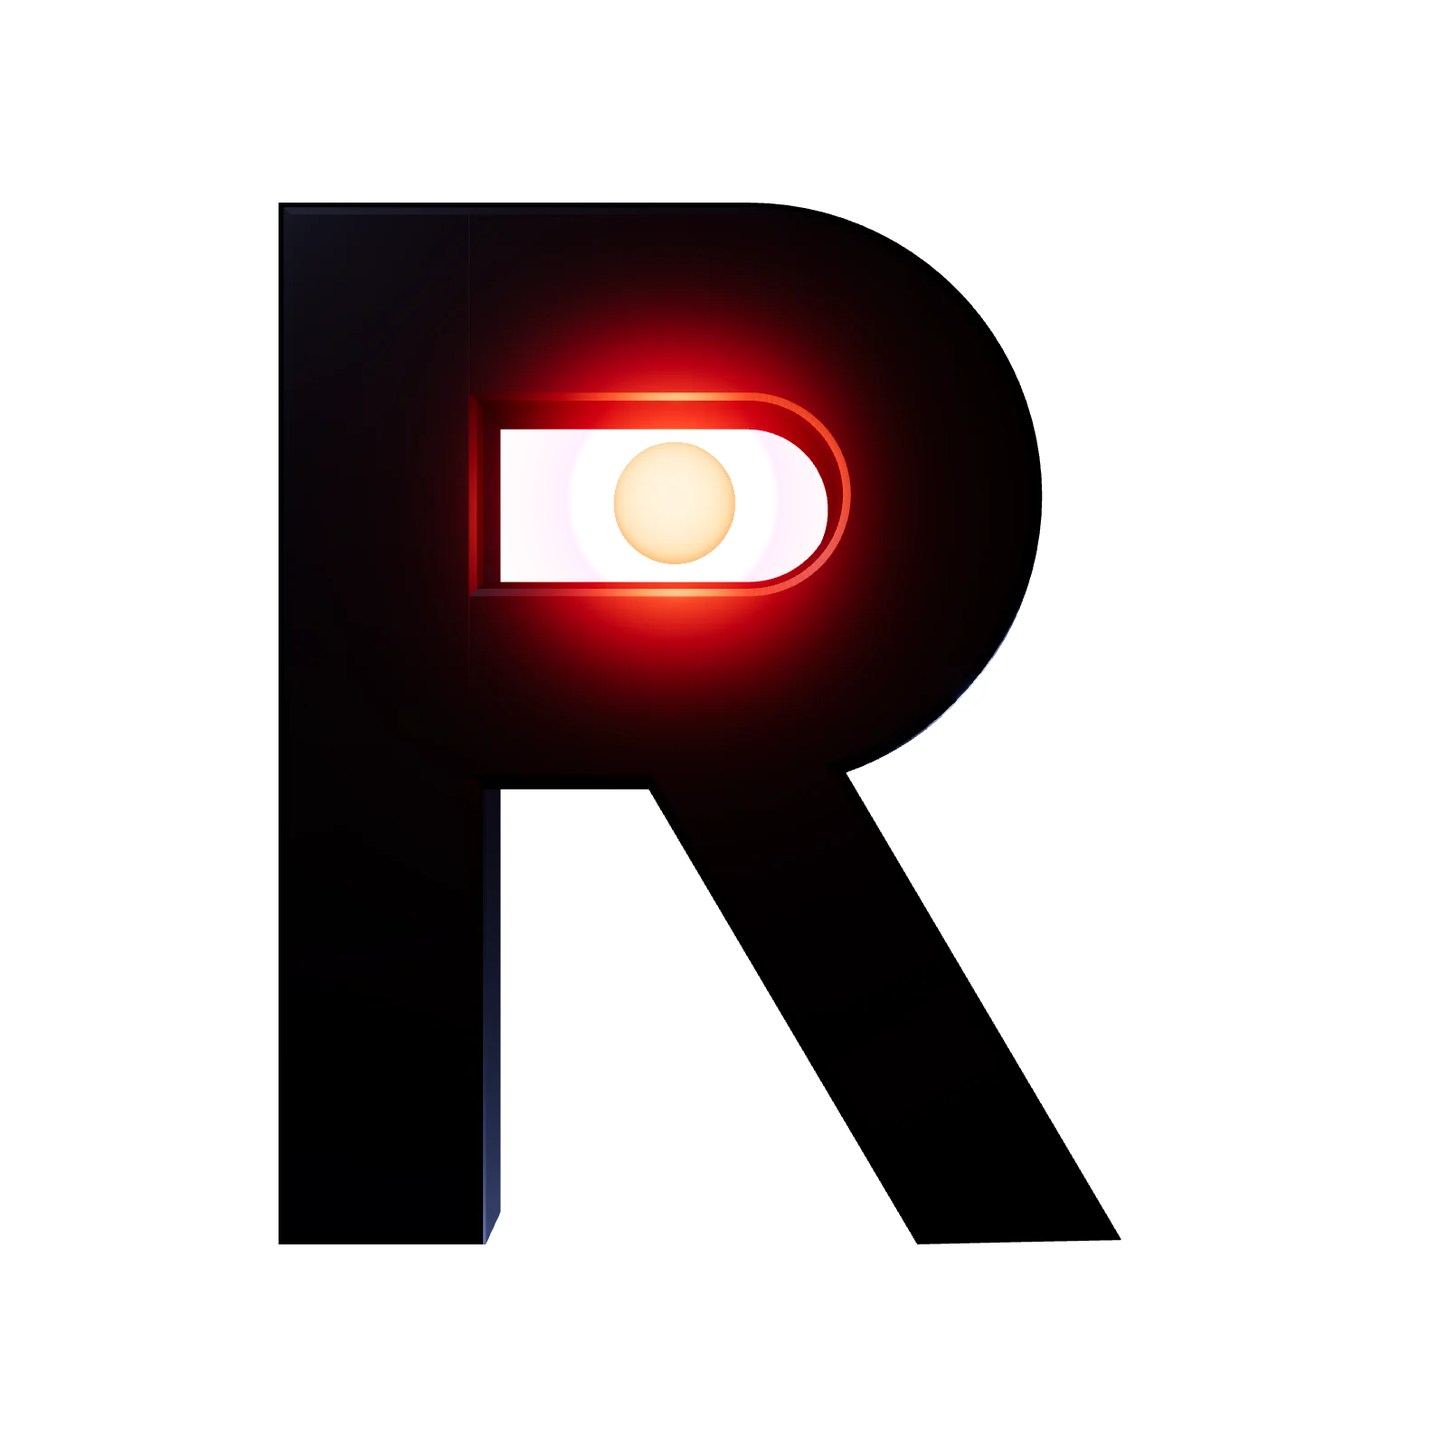
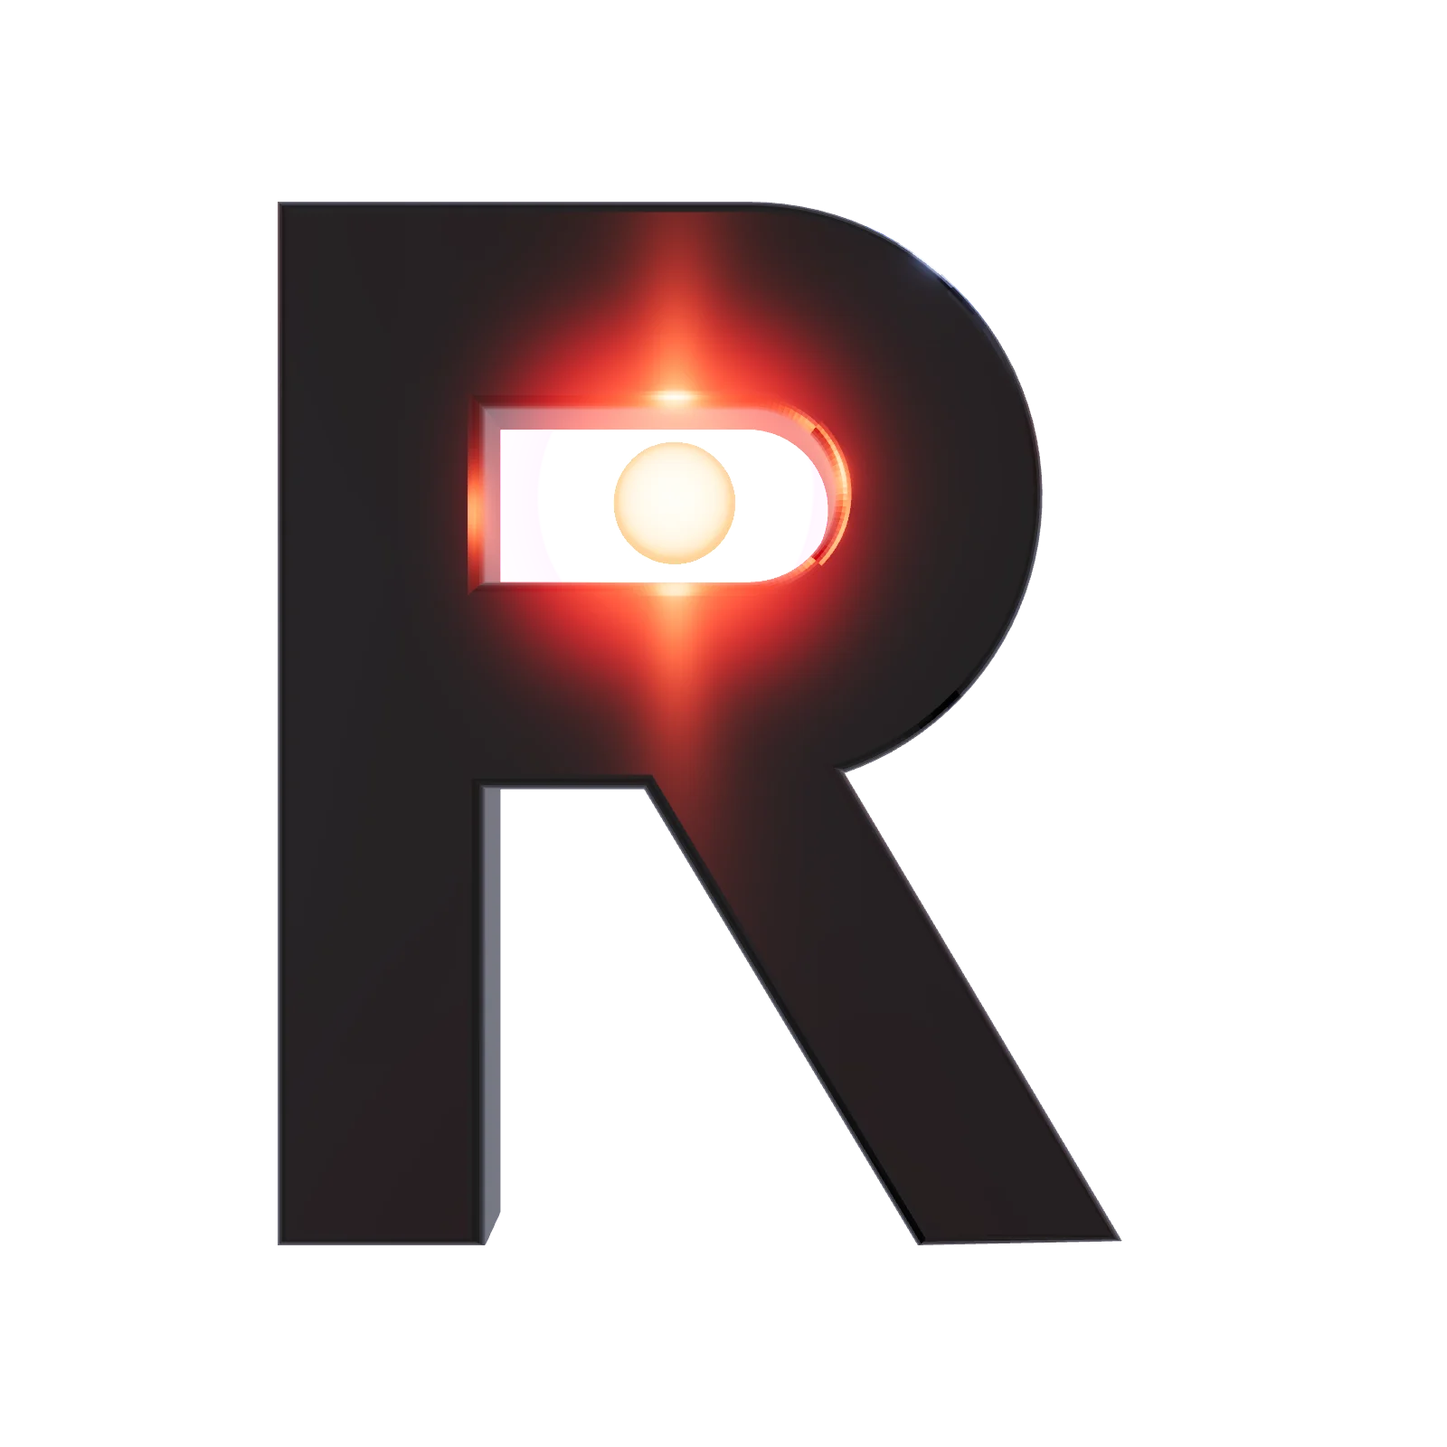
Hero scene: brushed-metal material, procedural environment, unclipped bloom

Changed region(s): [[0.1875, 0.125, 0.7812, 0.875]]

diff --git a/components/hero/HeroScene.tsx b/components/hero/HeroScene.tsx
@@ -1,6 +1,7 @@
 "use client";
 import { useCallback, useEffect, useRef, useState, type RefObject } from "react";
 import { Canvas, useFrame, useThree } from "@react-three/fiber";
+import { Environment, Lightformer } from "@react-three/drei";
 import { EffectComposer, Bloom, ToneMapping } from "@react-three/postprocessing";
 import { ToneMappingMode, type BloomEffect } from "postprocessing";
 import * as THREE from "three";
@@ -9,13 +10,22 @@ import { sceneBridge } from "./SceneBridge";
 
 /** Pointer distance (CSS px) from the projected dot at which the flare starts. */
 const FLARE_RADIUS = 160;
+/** Canvas bleed beyond the poster box on each side (fraction of the box), so the bloom halo is never clipped. */
+const BLEED = 0.25;
+const BASE_FOV = 35;
+/** Same on-screen letter size in a canvas (1 + 2·BLEED)× larger than the box. */
+const BLEED_FOV = THREE.MathUtils.radToDeg(2 * Math.atan((1 + 2 * BLEED) * Math.tan(THREE.MathUtils.degToRad(BASE_FOV / 2))));
 
-type Props = {
+export type Props = {
   onReady: () => void;
+  /** Only used by the import-failure fallback in HeroPoster. */
+  onFail?: () => void;
   /** false renders without the EffectComposer (fallback when the GPU cannot run the bloom passes). */
   postprocessing?: boolean;
   /** Needed for toDataURL() in the poster renderer. */
   preserveDrawingBuffer?: boolean;
+  /** false: canvas exactly fills the box (poster renders). Default: bleed past the box so bloom is not clipped. */
+  bleed?: boolean;
 };
 
 type ClientPointer = { x: number; y: number; active: boolean };
@@ -27,8 +37,25 @@ type ClientPointer = { x: number; y: number; active: boolean };
 function Rig({ postprocessing, client }: { postprocessing: boolean; client: RefObject<ClientPointer> }) {
   const bloom = useRef<BloomEffect>(null);
   const dot = useRef(new THREE.Vector3());
+  const gl = useThree((s) => s.gl);
+  const rect = useRef<DOMRect | null>(null);
+  // Cache the canvas rect; re-read on resize/scroll instead of every frame.
+  useEffect(() => {
+    const el = gl.domElement;
+    const read = () => { rect.current = el.getBoundingClientRect(); };
+    read();
+    const ro = new ResizeObserver(read);
+    ro.observe(el);
+    window.addEventListener("scroll", read, { passive: true });
+    window.addEventListener("resize", read);
+    return () => {
+      ro.disconnect();
+      window.removeEventListener("scroll", read);
+      window.removeEventListener("resize", read);
+    };
+  }, [gl]);
   useFrame((state, dt) => {
-    const { camera, gl } = state;
+    const { camera } = state;
     const { progress, cameraZ } = sceneBridge;
     camera.position.z = cameraZ;
     camera.lookAt(DOT_WORLD.x * progress, DOT_WORLD.y * progress, 0);
@@ -37,11 +64,11 @@ function Rig({ postprocessing, client }: { postprocessing: boolean; client: RefO
     // Flare: +40 % light when the pointer is within FLARE_RADIUS px of the projected dot.
     let target = 0;
     const p = client.current;
-    if (p.active) {
-      const rect = gl.domElement.getBoundingClientRect();
+    const r = rect.current;
+    if (p.active && r) {
       const v = dot.current.set(DOT_WORLD.x, DOT_WORLD.y, 0).project(camera);
-      const sx = rect.left + ((v.x + 1) / 2) * rect.width;
-      const sy = rect.top + ((1 - v.y) / 2) * rect.height;
+      const sx = r.left + ((v.x + 1) / 2) * r.width;
+      const sy = r.top + ((1 - v.y) / 2) * r.height;
       target = 1 - THREE.MathUtils.smoothstep(Math.hypot(p.x - sx, p.y - sy), FLARE_RADIUS * 0.5, FLARE_RADIUS);
     }
     sceneBridge.flare = THREE.MathUtils.damp(sceneBridge.flare, target, 8, dt);
@@ -85,7 +112,7 @@ function Ready({ onReady }: { onReady: () => void }) {
   return null;
 }
 
-export default function HeroScene({ onReady, postprocessing = true, preserveDrawingBuffer = false }: Props) {
+export default function HeroScene({ onReady, postprocessing = true, preserveDrawingBuffer = false, bleed = true }: Props) {
   const wrapper = useRef<HTMLDivElement>(null);
   const client = useRef<ClientPointer>({ x: 0, y: 0, active: false });
   const [visible, setVisible] = useState(true);
@@ -97,7 +124,8 @@ export default function HeroScene({ onReady, postprocessing = true, preserveDraw
       if (e.pointerType !== "mouse" && e.pointerType !== "pen") return;
       sceneBridge.pointer.x = (e.clientX / innerWidth) * 2 - 1;
       sceneBridge.pointer.y = (e.clientY / innerHeight) * 2 - 1;
-      client.current = { x: e.clientX, y: e.clientY, active: true };
+      const c = client.current;
+      c.x = e.clientX; c.y = e.clientY; c.active = true;
     };
     const onLeave = () => { client.current.active = false; sceneBridge.pointer.x = 0; sceneBridge.pointer.y = 0; };
     window.addEventListener("pointermove", onMove, { passive: true });
@@ -121,20 +149,32 @@ export default function HeroScene({ onReady, postprocessing = true, preserveDraw
   }, []);
 
   return (
-    <div ref={wrapper} data-hero-scene className="absolute inset-0">
+    // The bleed wrapper extends past the poster box so the bloom halo fades out instead of being clipped into a square.
+    // Task 6 makes the canvas viewport-sized for the dive anyway. Never intercepts pointer events.
+    <div ref={wrapper} data-hero-scene className={`pointer-events-none absolute ${bleed ? "inset-[-25%]" : "inset-0"}`}>
       <Canvas
         dpr={[1, 1.5]}
-        camera={{ position: [0, 0, 6], fov: 35 }}
-        gl={{ antialias: true, alpha: true, powerPreference: "high-performance", preserveDrawingBuffer }}
+        camera={{ position: [0, 0, 6], fov: bleed ? BLEED_FOV : BASE_FOV }}
+        // the EffectComposer multisamples; native MSAA on the default framebuffer would be wasted
+        gl={{ antialias: false, alpha: true, powerPreference: "high-performance", preserveDrawingBuffer }}
         frameloop={warm && visible ? "always" : "never"}
+        style={{ pointerEvents: "none" }}
         aria-hidden
       >
-        {/* Cool fill from the upper left plus a faint rim from behind: the dark metal keeps its silhouette.
-            (No runtime environment map: a PMREM bake blocks the main thread on slow GPUs.) */}
-        <ambientLight intensity={0.08} color="#9DB2FF" />
-        <directionalLight position={[-4, 5, 6]} intensity={2.4} color="#B8C4FF" />
-        <directionalLight position={[3, -2, -5]} intensity={1.2} color="#8FA2E0" />
-        <pointLight position={[-2.2, 2.4, 2.6]} intensity={9} distance={12} decay={2} color="#AEB9E8" />
+        {/* Procedural studio environment (no network) for the brushed metal: a cool softbox upper left, a cool strip
+            behind right, a dim cool card in front, and a small red ring at the counter so the face reflects the signal. Hardware GL only (software
+            renderers get the poster). */}
+        <Environment resolution={64} frames={1}>
+          <Lightformer form="rect" color="#B8C4FF" intensity={1.6} position={[-4, 4, 3]} scale={[5, 1.5, 1]} target={[0, 0, 0]} />
+          <Lightformer form="rect" color="#8FA2E0" intensity={0.7} position={[4, -1, -3]} scale={[2, 6, 1]} target={[0, 0, 0]} />
+          {/* a dim cool card straight in front: the flat face mirrors +z, so this sets the metal's base sheen */}
+          <Lightformer form="rect" color="#B4B8C8" intensity={1.4} position={[0, 0, 4]} scale={[7, 7, 1]} target={[0, 0, 0]} />
+          {/* the face mirrors +z, so the ring is kept small and dim: red stays light, never a fill */}
+          <Lightformer form="ring" color="#FF4A26" intensity={0.9} position={[-0.13, 0.58, 2.5]} scale={0.6} target={[0, 0, 0]} />
+        </Environment>
+        <ambientLight intensity={0.05} color="#9DB2FF" />
+        <directionalLight position={[-4, 5, 6]} intensity={0.8} color="#B8C4FF" />
+        <directionalLight position={[2, 3, -4]} intensity={2.5} color="#8FA2E0" />
         <RLetter />
         <Rig postprocessing={postprocessing} client={client} />
         <Warmup onWarm={handleWarm} />

diff --git a/components/hero/RLetter.tsx b/components/hero/RLetter.tsx
@@ -6,8 +6,53 @@ import { SVGLoader } from "three/examples/jsm/loaders/SVGLoader.js";
 import { MONOGRAM } from "@/components/brand/Monogram";
 import { sceneBridge } from "./SceneBridge";
 
-// Geometry-only SVG (no dot). The bowl is evenodd so its inner sub-path becomes a hole (the counter).
-const SVG = `<svg xmlns="http://www.w3.org/2000/svg" viewBox="0 0 100 100"><rect x="${MONOGRAM.stem.x}" y="${MONOGRAM.stem.y}" width="${MONOGRAM.stem.width}" height="${MONOGRAM.stem.height}"/><path fill-rule="evenodd" d="${MONOGRAM.bowl}"/><polygon points="${MONOGRAM.leg}"/></svg>`;
+/**
+ * One unioned outline for stem + bowl + leg (so the bevels never interpenetrate at the joints), plus the counter as an
+ * evenodd hole. Derived from MONOGRAM: the leg's right edge leaves the bowl where it crosses the bowl's outer arc,
+ * its left edge enters the bowl's bottom edge.
+ */
+function rOutline(): string {
+  const { stem, leg } = MONOGRAM;
+  const [, [x2, y2], [x3, y3], [x4, y4]] = leg.split(" ").map((p) => p.split(",").map(Number));
+  const cx = 52, cy = 32, r = 22, top = stem.y, bottom = cy + r; // bowl circle (from MONOGRAM.bowl)
+  const left = stem.x, inner = stem.x + stem.width, foot = stem.y + stem.height;
+  // leg right edge (x2,y2)->(x3,y3) ∩ bowl circle
+  const dx = (x3 - x2) / (y3 - y2);
+  const ox = x2 - cx, oy = y2 - cy;
+  const qa = dx * dx + 1, qb = 2 * (ox * dx + oy), qc = ox * ox + oy * oy - r * r;
+  const t = (-qb + Math.sqrt(qb * qb - 4 * qa * qc)) / (2 * qa);
+  const ex = x2 + dx * t, ey = y2 + t;
+  // leg left edge (x4,y4)->(leg[0]) ∩ bowl bottom (y = bottom)
+  const [x1, y1] = leg.split(" ")[0].split(",").map(Number);
+  const lx = x1 + ((x4 - x1) / (y4 - y1)) * (bottom - y1);
+  const f = (n: number) => n.toFixed(3);
+  return [
+    `M${left},${top} H${cx} A${r},${r} 0 0 1 ${f(ex)},${f(ey)} L${x3},${y3} L${x4},${y4} L${f(lx)},${bottom} H${inner} V${foot} H${left} Z`,
+    "M30,24 H52 A8,8 0 0 1 52,40 H30 Z", // counter (hole), as in MONOGRAM.bowl
+  ].join(" ");
+}
+
+const SVG = `<svg xmlns="http://www.w3.org/2000/svg" viewBox="0 0 100 100"><path fill-rule="evenodd" d="${rOutline()}"/></svg>`;
+
+/** Fine horizontal brushing as a tiny generated normal map (no network). */
+function brushedNormalMap(): THREE.DataTexture {
+  const size = 256;
+  const data = new Uint8Array(size * size * 4);
+  let seed = 0x5eed; // deterministic, so re-rendered posters match
+  const rand = () => ((seed = (seed * 1664525 + 1013904223) >>> 0) / 4294967296);
+  for (let y = 0; y < size; y++) {
+    const r = 128 + Math.round(rand() * 24 - 12);
+    for (let x = 0; x < size; x++) {
+      const i = (y * size + x) * 4;
+      data[i] = r; data[i + 1] = 128; data[i + 2] = 255; data[i + 3] = 255;
+    }
+  }
+  const tex = new THREE.DataTexture(data, size, size, THREE.RGBAFormat);
+  tex.wrapS = tex.wrapT = THREE.RepeatWrapping;
+  tex.repeat.set(0.03, 0.03); // extrude UVs are in SVG units
+  tex.needsUpdate = true;
+  return tex;
+}
 
 /** SVG units → world units (100 SVG units = 3.2 world units: the R fills ~70 % of the frame at camera z 6, fov 35). */
 export const SCALE = 0.032;
@@ -17,7 +62,7 @@ export const DOT_WORLD = { x: (MONOGRAM.dot.cx - 50) * SCALE, y: -(MONOGRAM.dot.
 /** Dot radius in SVG units (matches the SVG monogram). */
 const MONOGRAM_DOT_R = 5;
 const BREATH_PERIOD_MS = 4000;
-const BASE_LIGHT = 14;
+const BASE_LIGHT = 10;
 
 export function RLetter() {
   const group = useRef<THREE.Group>(null);
@@ -25,15 +70,17 @@ export function RLetter() {
   const geometry = useMemo(() => {
     const data = new SVGLoader().parse(SVG);
     const shapes = data.paths.flatMap((p) => SVGLoader.createShapes(p));
-    const geo = new THREE.ExtrudeGeometry(shapes, { depth: 12, bevelEnabled: true, bevelThickness: 1.2, bevelSize: 1.2, bevelSegments: 3, curveSegments: 24 });
+    const geo = new THREE.ExtrudeGeometry(shapes, { depth: 12, bevelEnabled: true, bevelThickness: 2, bevelSize: 1.2, bevelSegments: 6, curveSegments: 24 });
     // Centre on the viewBox centre (not the bbox) so the dot maps exactly to DOT_WORLD.
-    geo.translate(-50, -50, -6);
+    geo.translate(-50, -50, -6); // depth 12 → z symmetric
     // SVG y is down: mirror y. Mirroring z too keeps the determinant positive, so triangle winding
     // and the extruder's smooth bevel normals stay valid (the extrusion is symmetric in z after the translate).
     geo.scale(SCALE, -SCALE, -SCALE);
     return geo;
   }, []);
-  useEffect(() => () => geometry.dispose(), [geometry]);
+  const normalMap = useMemo(() => brushedNormalMap(), []);
+  const normalScale = useMemo(() => new THREE.Vector2(0.12, 0.12), []);
+  useEffect(() => () => { geometry.dispose(); normalMap.dispose(); }, [geometry, normalMap]);
   const dot = useMemo(() => new THREE.Vector3(DOT_WORLD.x, DOT_WORLD.y, 0), []);
 
   useFrame((_, dt) => {
@@ -51,10 +98,21 @@ export function RLetter() {
   return (
     <group ref={group}>
       <mesh geometry={geometry}>
-        <meshPhysicalMaterial color="#1C1A18" metalness={0.85} roughness={0.38} clearcoat={0.2} clearcoatRoughness={0.4} />
+        <meshPhysicalMaterial
+          color="#3B3732"
+          metalness={1}
+          roughness={0.34}
+          anisotropy={0.75}
+          anisotropyRotation={Math.PI / 2}
+          clearcoat={0.3}
+          clearcoatRoughness={0.22}
+          envMapIntensity={1}
+          normalMap={normalMap}
+          normalScale={normalScale}
+        />
       </mesh>
-      {/* key light sits in front of the counter: it rakes the bowl's inner walls and spills onto the face */}
-      <pointLight ref={light} position={[dot.x, dot.y, 0.7]} color="#FF4A26" intensity={BASE_LIGHT} distance={9} decay={2} />
+      {/* key light just in front of the counter (grazing): rakes the bowl's inner walls and spills onto the face */}
+      <pointLight ref={light} position={[dot.x, dot.y, 0.4]} color="#FF4A26" intensity={BASE_LIGHT} distance={7} decay={2} />
       <mesh position={dot}>
         <sphereGeometry args={[MONOGRAM_DOT_R * SCALE, 24, 24]} />
         <meshStandardMaterial color="#FF4A26" emissive="#FF4A26" emissiveIntensity={2.4} toneMapped={false} />

diff --git a/components/hero/HeroPoster.tsx b/components/hero/HeroPoster.tsx
@@ -4,8 +4,16 @@ import { useCallback, useEffect, useRef, useState } from "react";
 import { useTier } from "@/lib/tiers";
 import { Monogram } from "@/components/brand/Monogram";
 
+import type { Props as SceneProps } from "./HeroScene";
+
+/** Rendered instead of the scene when its chunk fails to load: falls back to the poster and releases readiness. */
+function SceneFailed({ onFail }: SceneProps) {
+  useEffect(() => { onFail?.(); }, [onFail]);
+  return null;
+}
+
 // The only entry point into `three`/R3F: a lazy client-only chunk, never part of the initial bundle.
-const HeroScene = dynamic(() => import("./HeroScene"), { ssr: false });
+const HeroScene = dynamic<SceneProps>(() => import("./HeroScene").catch(() => ({ default: SceneFailed })), { ssr: false });
 
 // Projected position and size of the counter dot in the rendered poster
 // (camera z 6, fov 35, dot at world (-0.128, 0.576), sphere r 0.16; see RLetter/HeroScene).
@@ -18,23 +26,21 @@ function posterMode(): boolean {
 }
 
 /**
- * Software rasterizers (SwiftShader, llvmpipe) link shaders synchronously for seconds and freeze the page, so they
- * get the poster (spec §6.4: GPU tier 0 is never a scene tier). Real tier detection already rules them out; this
- * covers the `redzy:tier` override. `localStorage["redzy:scene"] = "force"` mounts the scene anyway (tests/debug).
+ * Software rasterizers (SwiftShader, llvmpipe, WARP) link shaders synchronously for seconds and freeze the page, so
+ * they get the poster (spec §6.4: GPU tier 0 is never a scene tier). Real tier detection already rules them out; this
+ * covers the `redzy:tier` override. three 0.186 needs WebGL2, so without it there is no scene either.
+ * `localStorage["redzy:scene"] = "force"` mounts the scene on a software renderer anyway (tests/debug).
  */
 function sceneCapable(): boolean {
-  try { if (localStorage.getItem("redzy:scene") === "force") return true; } catch {}
-  return !softwareGL();
-}
-
-function softwareGL(): boolean {
   try {
     const gl = document.createElement("canvas").getContext("webgl2");
     if (!gl) return false;
     const info = gl.getExtension("WEBGL_debug_renderer_info");
     const renderer = info ? String(gl.getParameter(info.UNMASKED_RENDERER_WEBGL)) : "";
     gl.getExtension("WEBGL_lose_context")?.loseContext();
-    return /swiftshader|llvmpipe|softpipe|software/i.test(renderer);
+    let forced = false;
+    try { forced = localStorage.getItem("redzy:scene") === "force"; } catch {}
+    return forced || !/swiftshader|llvmpipe|softpipe|software|basic render/i.test(renderer);
   } catch { return false; }
 }
 
@@ -79,11 +85,19 @@ export function HeroPoster() {
       return;
     }
     const idle = onIdle(() => setMount(true));
-    return () => idle.cancel();
+    return () => {
+      idle.cancel();
+      // never leave the loader waiting on a scene that will not render
+      resolveRef.current?.();
+    };
   }, [wantsScene, poster, tier]);
 
   const handleReady = useCallback(() => {
     setReady(true);
+    resolveRef.current?.();
+  }, []);
+  const handleFail = useCallback(() => {
+    setCapable(false);
     resolveRef.current?.();
   }, []);
 
@@ -106,22 +120,30 @@ export function HeroPoster() {
       )}
 
       {sceneTier && mount && (
-        <div role="img" aria-label="Redzy monogram, lit from the counter" className={ready ? "absolute inset-0 opacity-100 transition-opacity duration-500" : "absolute inset-0 opacity-0"}>
-          <HeroScene onReady={handleReady} preserveDrawingBuffer={poster} />
+        <div role="img" aria-label="Redzy monogram, lit from the counter" aria-hidden={!ready || undefined} className={ready ? "absolute inset-0 opacity-100 transition-opacity duration-500" : "absolute inset-0 opacity-0"}>
+          <HeroScene onReady={handleReady} onFail={handleFail} preserveDrawingBuffer={poster} bleed={!poster} />
         </div>
       )}
 
       {showPoster && (
         <>
-          <picture>
-            <source media="(min-width: 1024px)" srcSet="/media/hero/poster-1600.webp" />
-            <img src="/media/hero/poster-900.webp" alt="Redzy monogram" width={900} height={900} decoding="async" fetchPriority="high" className="relative block h-full w-full object-contain" />
-          </picture>
+          {/* eslint-disable-next-line @next/next/no-img-element -- static export: pre-rendered WebP pair picked by srcset */}
+          <img
+            src="/media/hero/poster-900.webp"
+            srcSet="/media/hero/poster-900.webp 900w, /media/hero/poster-1600.webp 1600w"
+            sizes="(min-width: 1024px) min(38vw, 620px), min(72vw, 520px)"
+            alt="Redzy monogram"
+            width={900}
+            height={900}
+            decoding="async"
+            fetchPriority="high"
+            className="relative block h-full w-full object-contain"
+          />
           <span
             aria-hidden
             data-poster-dot
-            className={`absolute rounded-full bg-signal shadow-[0_0_24px_8px_rgba(255,74,38,.55)] ${tier !== "C" ? "motion-safe:animate-[navpulse_2.4s_ease-in-out_infinite]" : ""}`}
-            style={{ left: POSTER_DOT.left, top: POSTER_DOT.top, width: POSTER_DOT.size, height: POSTER_DOT.size, translate: "-50% -50%" }}
+            className={`absolute rounded-full shadow-[0_0_24px_8px_rgba(255,74,38,.55)] ${tier !== "C" ? "motion-safe:animate-[navpulse_2.4s_ease-in-out_infinite]" : ""}`}
+            style={{ left: POSTER_DOT.left, top: POSTER_DOT.top, width: POSTER_DOT.size, height: POSTER_DOT.size, translate: "-50% -50%", background: "radial-gradient(circle, #FFF1EC 0 30%, var(--color-signal) 70%)" }}
           />
         </>
       )}

diff --git a/tests/e2e/hero-scene.spec.ts b/tests/e2e/hero-scene.spec.ts
@@ -32,7 +32,7 @@ test.describe("hero scene", () => {
     });
     test.skip(!software, "hardware GL: the scene path is covered above");
     await expect(page.locator("[data-hero-poster] img")).toHaveCount(1);
-    await expect.poll(() => page.locator("[data-hero-poster] img").evaluate((el: HTMLImageElement) => el.currentSrc)).toContain("poster-1600");
+    await expect.poll(() => page.locator("[data-hero-poster] img").evaluate((el: HTMLImageElement) => el.currentSrc)).toMatch(/poster-(900|1600)\.webp/);
     await page.waitForTimeout(1500);
     await expect(page.locator("[data-hero-scene]")).toHaveCount(0);
   });
@@ -44,7 +44,8 @@ test.describe("hero scene", () => {
     const img = page.locator("[data-hero-poster] img");
     await expect(img).toHaveCount(1);
     await expect.poll(() => img.evaluate((el: HTMLImageElement) => el.currentSrc || el.src)).toContain("poster-900");
-    await expect.poll(() => img.evaluate((el: HTMLImageElement) => el.complete && el.naturalWidth)).toBe(900);
+    // srcset `w` descriptors make naturalWidth density-corrected, so only assert that it decoded
+    await expect.poll(() => img.evaluate((el: HTMLImageElement) => el.complete && el.naturalWidth > 0)).toBe(true);
     await expect(page.locator("[data-poster-dot]")).toHaveCount(1);
     await page.waitForTimeout(1500);
     await expect(page.locator("[data-hero-scene], [data-hero-poster] canvas")).toHaveCount(0);
